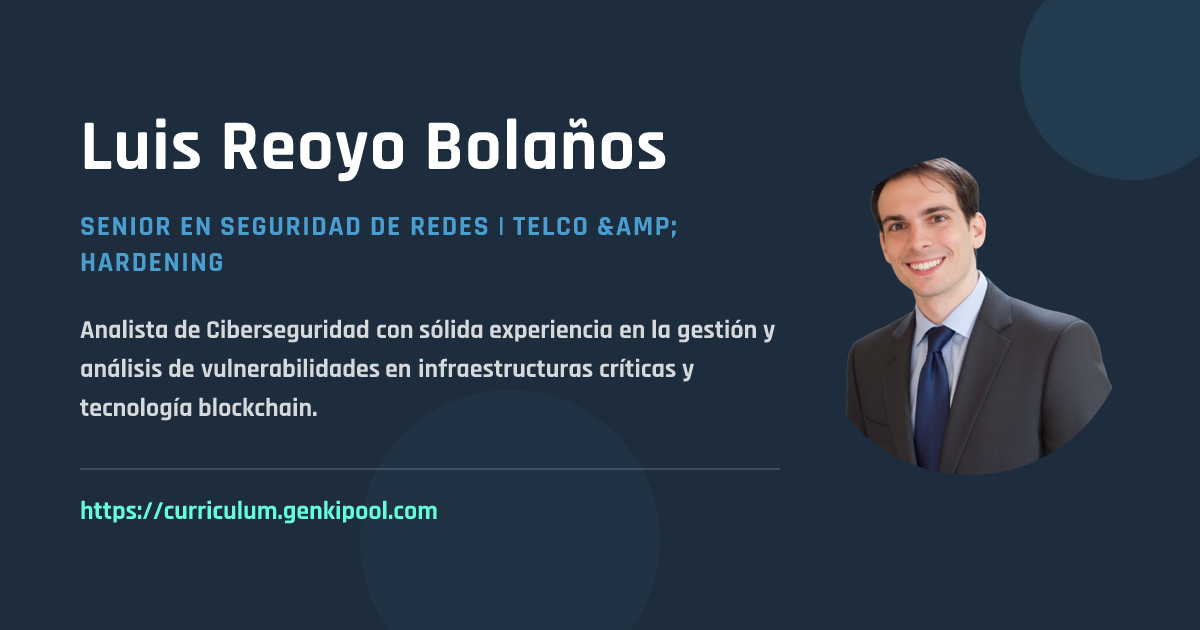
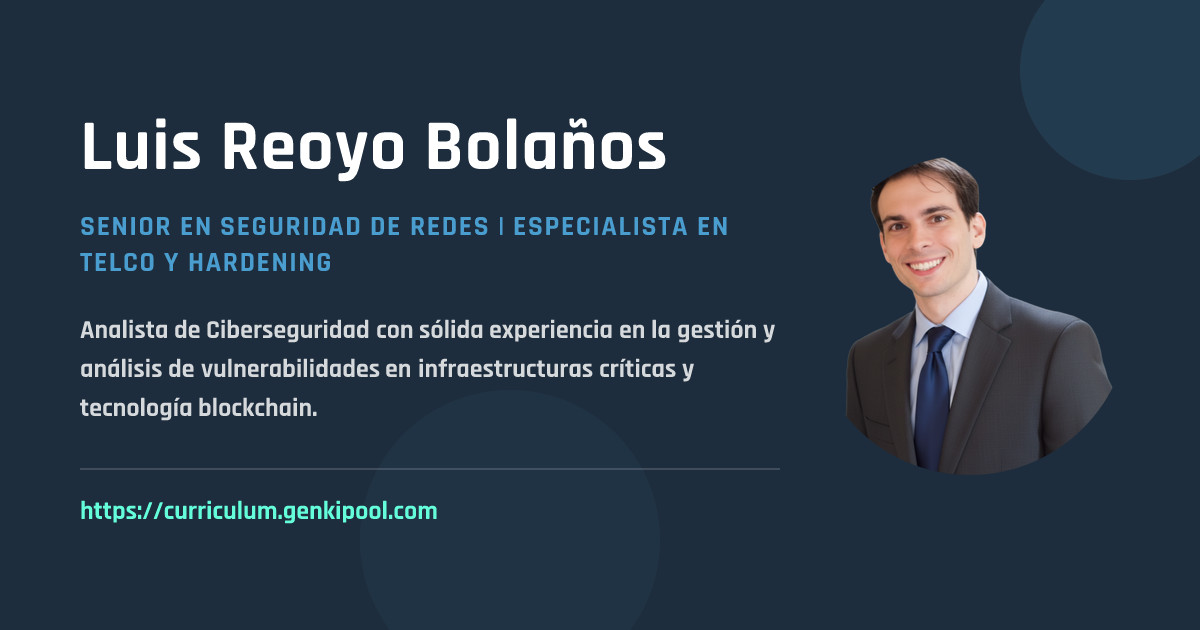
fix: replace ampersand with y in ES and fix uppercase Satori bug

Changed region(s): [[0.0617, 0.3921, 0.2775, 0.4524], [0.4317, 0.3317, 0.6167, 0.3921]]

diff --git a/src/i18n/ui.ts b/src/i18n/ui.ts
@@ -30,7 +30,7 @@ export const ui = {
     'label.currently': 'Actualidad',
 
     // Header
-    'header.job': 'Senior en Seguridad de Redes | Especialista en Telco & Hardening',
+    'header.job': 'Senior en Seguridad de Redes | Especialista en Telco y Hardening',
     'header.summary': 'Cuento con {years} años de experiencia como técnico de seguridad en telecomunicaciones, especializado en hardening y pentesting de dispositivos de red. Actualmente tengo a disposición los certificados de CCNP Security, CCNP y CEH.',
 
 
